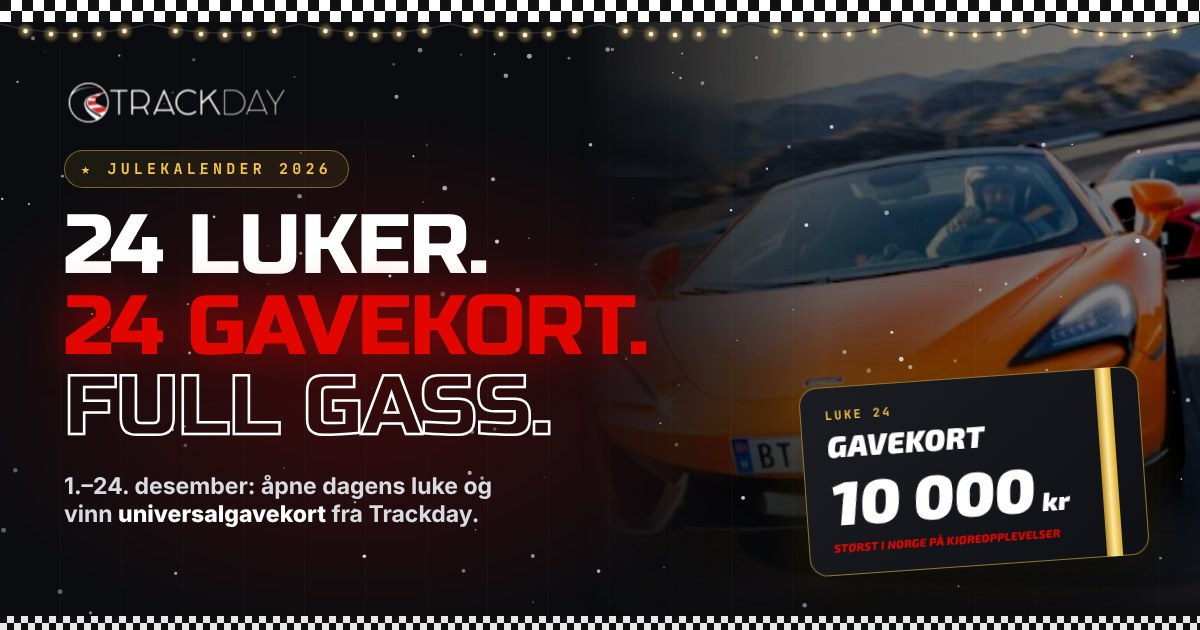
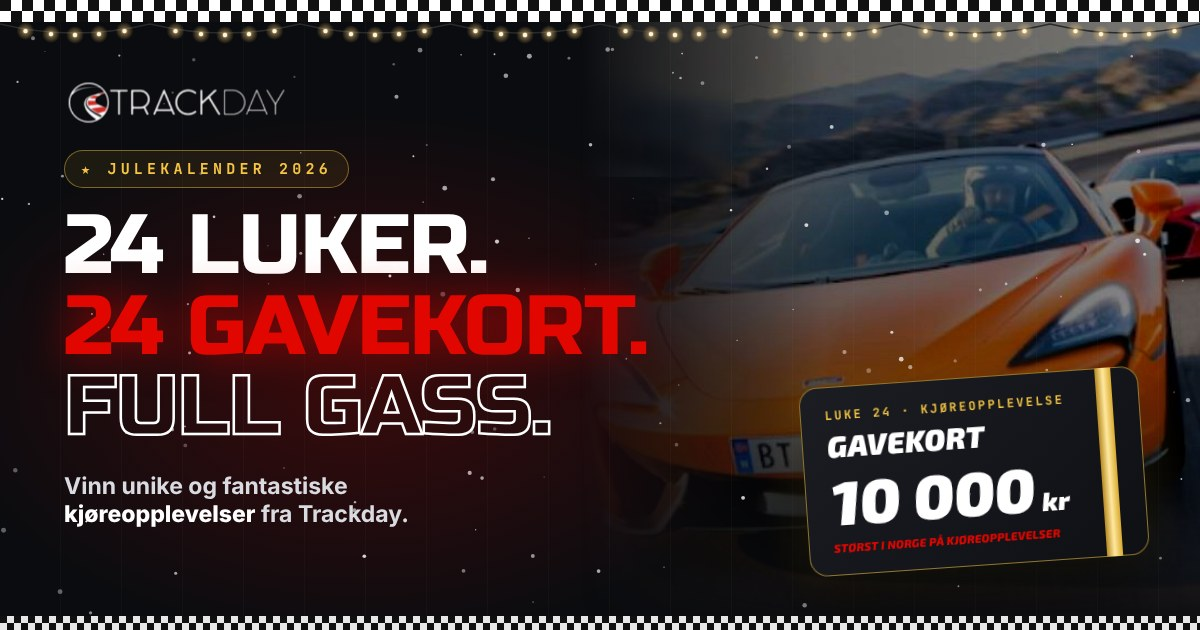
Premiene er gavekort på kjøreopplevelser: oppdatert tekster, e-poster og delingsbilde
Claude-Session: https://claude.ai/code/session_014FDyBWPTjKHwYjBgriTXvD

Changed region(s): [[0.0308, 0.754, 0.4317, 0.8444], [0.7708, 0.6333, 0.8942, 0.6635]]

diff --git a/index.html b/index.html
@@ -4,9 +4,9 @@
 <meta charset="utf-8">
 <meta name="viewport" content="width=device-width, initial-scale=1">
 <title>Trackday Julekalender 2026</title>
-<meta name="description" content="24 luker. 24 gavekort. Åpne dagens luke og bli med i trekningen av universalgavekort fra Trackday.">
+<meta name="description" content="24 luker. 24 gavekort på kjøreopplevelser. Åpne dagens luke og vinn unike og fantastiske kjøreopplevelser fra Trackday.">
 <meta property="og:title" content="Trackday Julekalender 2026">
-<meta property="og:description" content="Åpne en luke hver dag og vinn universalgavekort fra Trackday.">
+<meta property="og:description" content="24 luker. 24 gavekort på kjøreopplevelser. Vinn unike og fantastiske kjøreopplevelser fra Trackday.">
 <meta property="og:type" content="website">
 <meta property="og:url" content="https://julekalender.trackday.no/">
 <meta property="og:image" content="https://julekalender.trackday.no/og-image.jpg">
@@ -501,7 +501,7 @@ footer a{color:#d0d3d9}
   <section class="hero">
     <span class="kicker">Julekalender 2026</span>
     <h1>24 luker.<br><span class="red">24 gavekort.</span><br><span class="outline">Full gass.</span></h1>
-    <p class="sub">Åpne en ny luke hver dag frem til julaften og bli med i trekningen av universalgavekort fra Trackday. Vinnerne velger selv bil og kjøreopplevelse. Jo flere luker du åpner, jo flere sjanser har du.</p>
+    <p class="sub">Åpne en ny luke hver dag frem til julaften og vinn unike og fantastiske kjøreopplevelser fra Trackday. Bak hver luke ligger et gavekort på en kjøreopplevelse. Jo flere luker du åpner, jo flere sjanser har du.</p>
 
     <div class="timer" id="timer">
       <div class="timer-label"><span id="timerTop">Neste luke åpner om</span><b id="timerBottom">Luke 1</b></div>
@@ -542,7 +542,7 @@ footer a{color:#d0d3d9}
           <div class="digit"><span id="oM">00</span><small>MIN</small></div><div class="sep">:</div>
           <div class="digit"><span id="oS">00</span><small>SEK</small></div>
         </div>
-        <p>24 universalgavekort ligger klare bak lukene. Legg igjen e-posten din, så får du beskjed når den første åpner.</p>
+        <p>24 gavekort på kjøreopplevelser ligger klare bak lukene. Legg igjen e-posten din, så får du beskjed når den første åpner.</p>
         <form class="notify-form pl-form" id="plForm" novalidate>
           <input class="hp" type="text" name="company" tabindex="-1" autocomplete="off">
           <label class="sr" for="plEmail">E-postadresse</label>
@@ -575,8 +575,8 @@ footer a{color:#d0d3d9}
 
   <section class="how">
     <div><b>01</b><h4>Åpne dagens luke</h4><p>En ny luke låses opp hver dag klokken 00:00 fra 1. til 24. desember.</p></div>
-    <div><b>02</b><h4>Legg igjen e-post</h4><p>Skriv inn e-postadressen din for å bli med i trekningen av universalgavekortet bak luken.</p></div>
-    <div><b>03</b><h4>Vinn universalgavekort</h4><p id="drawInfoHow"></p></div>
+    <div><b>02</b><h4>Legg igjen e-post</h4><p>Skriv inn e-postadressen din for å bli med i trekningen av gavekortet bak luken.</p></div>
+    <div><b>03</b><h4>Vinn en kjøreopplevelse</h4><p id="drawInfoHow"></p></div>
   </section>
   </main>
 
@@ -584,7 +584,7 @@ footer a{color:#d0d3d9}
     <section class="hero">
       <span class="kicker">Julekalender 2026</span>
       <h1>Vinner<span class="gold">ne</span></h1>
-      <p class="sub">Hver dag i desember trekker vi en vinner av et universalgavekort. Her ser du hvem som har vunnet så langt.</p>
+      <p class="sub">Hver dag i desember trekker vi en vinner av et gavekort på en kjøreopplevelse. Her ser du hvem som har vunnet så langt.</p>
       <div class="w-stats">
         <div class="w-stat"><b id="sCount">0</b><span>av 24 trukket</span></div>
         <div class="w-stat"><b id="sSum">0 kr</b><span>delt ut</span></div>
@@ -636,7 +636,7 @@ footer a{color:#d0d3d9}
     <div class="giftcard" id="gc">
       <div class="gc-car" aria-hidden="true"></div>
       <div class="gc-title">GAVEKORT</div>
-      <div class="gc-sub">Universalgavekort</div>
+      <div class="gc-sub">Kjøreopplevelse</div>
       <div class="gc-tag">En drømmedag venter!</div>
       <div class="gc-amt" id="gcAmt">1 000<small>kr</small></div>
[1 lines of base64/hex data omitted]
@@ -655,7 +655,7 @@ footer a{color:#d0d3d9}
         <button class="btn" type="submit" id="entryBtn">Bli med i trekningen</button>
         <div class="err" aria-live="polite"></div>
       </form>
-      <p class="fine"><span id="mFine"></span> <a class="gc-link" href="#" target="_blank" rel="noopener">Les mer om universalgavekortet</a></p>
+      <p class="fine"><span id="mFine"></span> <a class="gc-link" href="#" target="_blank" rel="noopener">Les mer om kjøreopplevelsene</a></p>
     </div>
 
     <div id="mSuccess" class="success" hidden>
@@ -699,7 +699,7 @@ const CONFIG = {
 
   // Daglig trekning: hver luke er bare åpen sin egen dag (00:00 til 23:59)
   pastDoorsOpen: false,
-  drawInfo: "Vinneren trekkes dagen etter og får universalgavekortet på e-post. Gavekortet gjelder i 365 dager.",
+  drawInfo: "Vinneren trekkes dagen etter og får gavekortet på e-post. Gavekortet gjelder i 365 dager.",
   // Luke 24 trekkes denne datoen (desember)
   lastDrawDay: 27,
 
@@ -833,7 +833,7 @@ function render(){
     el.innerHTML = `
       <div class="behind">${past
         ? `<span class="lbl">${WINNERS[n]?"Vinner":"Trekkes nå"}</span><span class="who">${WINNERS[n]?esc(WINNERS[n].navn):"Snart klar"}</span><span class="amt">${prizeText(prize)}</span>`
-        : `<span class="lbl">Universal&shy;gavekort</span><span class="amt">${prizeText(prize)}</span>`}</div>
+        : `<span class="lbl">Kjøre&shy;opplevelse</span><span class="amt">${prizeText(prize)}</span>`}</div>
       <div class="front">
         <span class="cap" style="left:${4+(n*37%10)}%;right:${4+(n*53%12)}%;--drip:${30+(n*29%30)}%"></span>
         ${n===24?'<span class="rib-v"></span><span class="rib-h"></span>'+BOW:''}
@@ -872,10 +872,10 @@ function openModal(n){
   const prize = CONFIG.prizes[n-1];
   $("#gcDoor").textContent = `LUKE ${n}`;
   $("#gcAmt").innerHTML = typeof prize==="number" ? `${fmt(prize)}<small>kr</small>` : prize;
-  $("#mTitle").textContent = typeof prize==="number" ? `Universalgavekort på ${fmt(prize)} kr` : prize;
+  $("#mTitle").textContent = typeof prize==="number" ? `Kjøreopplevelse verdt ${fmt(prize)} kr` : prize;
   $("#mLead").textContent = n===24
-    ? "Den største luka i kalenderen. Et universalgavekort som holder til en skikkelig dag på banen. Legg igjen e-posten din og bli med i trekningen."
-    : `Bak luke ${n} ligger et universalgavekort. Vinneren velger selv bil og kjøreopplevelse, enten bak rattet eller på passasjersetet med en racingsjåfør.`;
+    ? "Den største luka i kalenderen. Et gavekort som holder til en skikkelig dag på banen. Legg igjen e-posten din og bli med i trekningen."
+    : `Bak luke ${n} ligger et gavekort på en kjøreopplevelse. Vinneren velger selv bil og opplevelse, enten bak rattet eller på passasjersetet med en racingsjåfør.`;
   $("#mFine").textContent = CONFIG.drawInfo;
   const form = $("#entryForm");
   form.reset();
@@ -987,7 +987,7 @@ function notifyDone(){
 if(store.get("notified",false)) notifyDone();
 
 $("#shareBtn").onclick = async ()=>{
-  const data = {title:"Trackday Julekalender",text:"Åpne en luke hver dag og vinn universalgavekort fra Trackday!",url:CONFIG.shareUrl};
+  const data = {title:"Trackday Julekalender",text:"Åpne en luke hver dag og vinn unike kjøreopplevelser fra Trackday!",url:CONFIG.shareUrl};
   if(navigator.share){ try{await navigator.share(data)}catch(e){} }
   else { try{await navigator.clipboard.writeText(CONFIG.shareUrl); toast("Lenken er kopiert")}catch(e){toast(CONFIG.shareUrl)} }
 };
@@ -1085,7 +1085,7 @@ function renderWinners(){
   if(newest){
     const x = W[newest];
     $("#lName").textContent = x.navn;
-    $("#lText").textContent = `${x.sted ? "Fra "+x.sted+". " : ""}Vant universalgavekort på ${prizeText(CONFIG.prizes[newest-1])} i luke ${newest}. Gratulerer!`;
+    $("#lText").textContent = `${x.sted ? "Fra "+x.sted+". " : ""}Vant ${typeof CONFIG.prizes[newest-1]==="number" ? "en kjøreopplevelse verdt "+prizeText(CONFIG.prizes[newest-1]) : CONFIG.prizes[newest-1]} i luke ${newest}. Gratulerer!`;
     $("#latest").hidden = false;
   }
   if(today>24){

diff --git a/api/_emails.js b/api/_emails.js
@@ -1,8 +1,11 @@
 // E-postmaler. Endre tekstene her.
-import { esc, prizeText, drawText, SITE_URL, GIFTCARD_URL, unsubUrl } from "./_lib.js";
+import { esc, prizeText, PRIZES, drawText, SITE_URL, GIFTCARD_URL, unsubUrl } from "./_lib.js";
 
 const LOGO = process.env.EMAIL_LOGO_URL ||
   "https://www.trackday.no/static/version1790664050/frontend/Trackday/ultimo_child/nb_NO/images/logo.png";
+
+// «en kjøreopplevelse verdt 500 kr», eller premieteksten hvis premien er en tekst
+const prize = door => typeof PRIZES[door - 1] === "number" ? `en kjøreopplevelse verdt ${prizeText(door)}` : prizeText(door);
 
 function layout({ preheader, title, body, button, footer = "" }) {
   return `<!doctype html><html lang="no"><head><meta charset="utf-8"><meta name="viewport" content="width=device-width,initial-scale=1"><title>${esc(title)}</title></head>
@@ -29,15 +32,15 @@ export function entryEmail({ door, name }) {
   return {
     subject,
     html: layout({
-      preheader: `Universalgavekort på ${prizeText(door)}. Vinneren trekkes ${when}.`,
+      preheader: `Vinn ${prize(door)}. Vinneren trekkes ${when}.`,
       title: subject,
       body: `<p>${hi}</p>
-<p>Du er med i trekningen av et <b>universalgavekort på ${esc(prizeText(door))}</b> bak luke ${door}.
+<p>Du er med i trekningen av <b>${esc(prize(door))}</b> bak luke ${door}.
 Vinneren trekkes <b>${when}</b> og får beskjed på denne e-postadressen.</p>
 <p>${next}</p>`,
       button: { label: "Til kalenderen", href: SITE_URL }
     }),
-    text: `${hi}\n\nDu er med i trekningen av et universalgavekort på ${prizeText(door)} bak luke ${door}. ` +
+    text: `${hi}\n\nDu er med i trekningen av ${prize(door)} bak luke ${door}. ` +
           `Vinneren trekkes ${when} og får beskjed på denne e-postadressen.\n\n${next}\n\n${SITE_URL}`
   };
 }
@@ -47,7 +50,7 @@ export function notifyEmail({ email }) {
   return {
     subject,
     html: layout({
-      preheader: "24 luker, 24 universalgavekort. Første luke åpner 1. desember.",
+      preheader: "24 luker, 24 gavekort på kjøreopplevelser. Første luke åpner 1. desember.",
       title: "Du står på startstreken!",
       body: `<p>Takk! Vi sender deg en e-post når nye luker åpner i Trackday Julekalender, så du ikke går glipp av en eneste sjanse.</p>
 <p>Første luke åpner <b>1. desember kl. 00:00</b>.</p>`,
@@ -59,18 +62,18 @@ export function notifyEmail({ email }) {
 }
 
 export function reminderEmail({ door, email }) {
-  const subject = door === 24 ? "Siste luke er åpen: gavekort på " + prizeText(24) : `Luke ${door} er åpen: gavekort på ${prizeText(door)}`;
+  const subject = `${door === 24 ? "Siste luke" : `Luke ${door}`} er åpen: vinn ${prize(door)}`;
   return {
     subject,
     html: layout({
       preheader: `Bli med i trekningen i dag. Luka stenger kl. 23:59.`,
       title: `Luke ${door} er åpen`,
-      body: `<p>Bak dagens luke ligger et <b>universalgavekort på ${esc(prizeText(door))}</b>.
+      body: `<p>Bak dagens luke ligger <b>${esc(prize(door))}</b>.
 Luka er åpen til kl. 23:59 i kveld, og vinneren trekkes ${drawText(door)}.</p>`,
       button: { label: `Åpne luke ${door}`, href: `${SITE_URL}/?utm_source=julekalender&utm_medium=email&utm_campaign=paaminnelse&utm_content=luke${door}` },
       footer: unsubFooter(email)
     }),
-    text: `Luke ${door} er åpen! Bak dagens luke ligger et universalgavekort på ${prizeText(door)}. ` +
+    text: `Luke ${door} er åpen! Bak dagens luke ligger ${prize(door)}. ` +
           `Luka er åpen til kl. 23:59 i kveld.\n\n${SITE_URL}\n\nMeld deg av påminnelsene: {{unsub}}`
   };
 }
@@ -80,14 +83,14 @@ export function winnerEmail({ door, name }) {
   return {
     subject,
     html: layout({
-      preheader: `Du vant et universalgavekort på ${prizeText(door)}.`,
+      preheader: `Du vant ${prize(door)}.`,
       title: "Gratulerer, du vant!",
       body: `<p>${name ? `Hei ${esc(name)}! ` : ""}Du er trukket ut som vinner av luke ${door} og har vunnet et
-<b>universalgavekort på ${esc(prizeText(door))}</b>.</p>
+<b>gavekort på ${esc(prize(door))}</b>.</p>
 <p>Vi sender gavekortet til denne e-postadressen i løpet av kort tid. Gavekortet gjelder i 365 dager.</p>`,
       button: { label: "Se hva du kan bruke det på", href: GIFTCARD_URL }
     }),
-    text: `Gratulerer! Du er trukket ut som vinner av luke ${door} og har vunnet et universalgavekort på ${prizeText(door)}. ` +
+    text: `Gratulerer! Du er trukket ut som vinner av luke ${door} og har vunnet et gavekort på ${prize(door)}. ` +
           `Vi sender gavekortet til denne e-postadressen i løpet av kort tid.`
   };
 }
